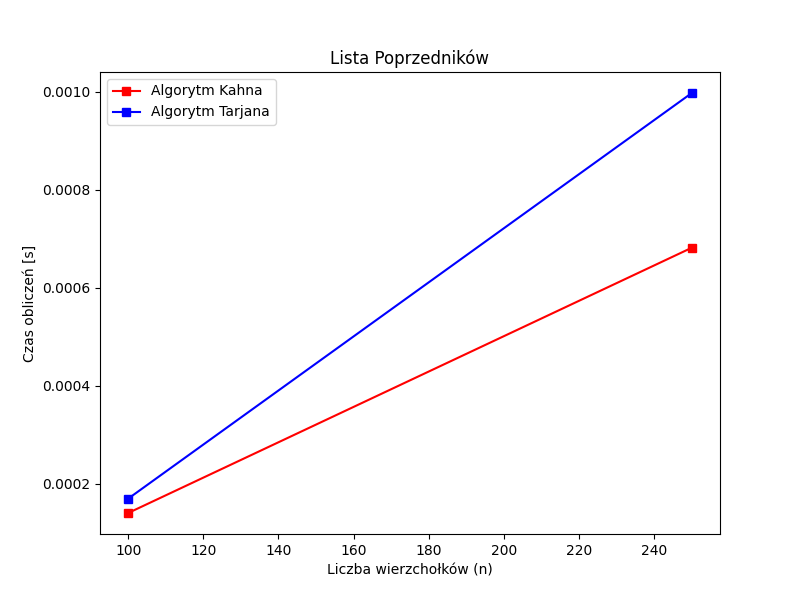
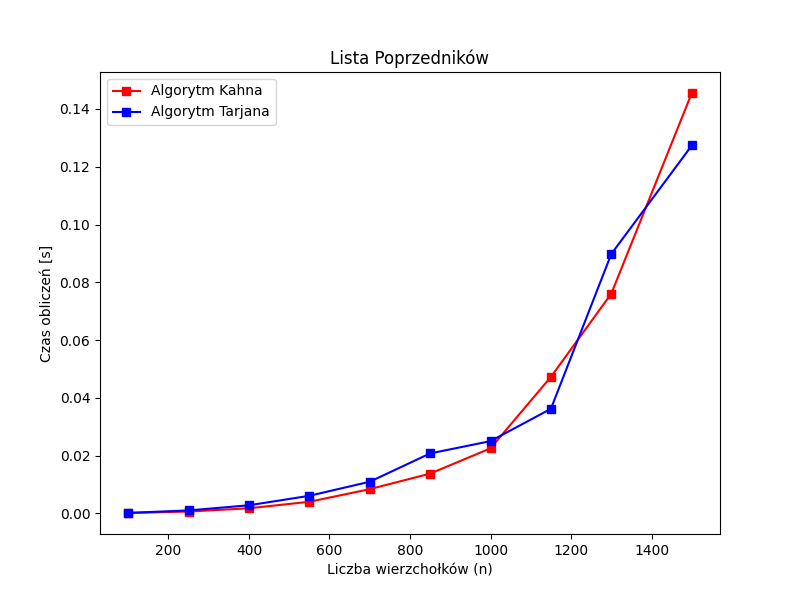
Add report and plots

diff --git a/README.md b/README.md
@@ -1,1 +1,224 @@
-# AiSD-task3-gr2
+# Raport - sortowanie topologiczne grafów
+
+## Testowanie dla n = 100
+### Parametry wejściowe (fragment pliku):
+```text
+100 2475
+68 98
+74 75
+30 84
+32 51
+73 76
+...
+```
+
+### Wyniki sortowania:
+| Algorytm | Reprezentacja      | Czas [s] | Wynik (fragment)                         |
+|:---------|:-------------------|:---------|:-----------------------------------------|
+| Kahna    | Macierz Incydencji | 0.065243 | [1, 4, 6, 2, 3, ..., 98, 94, 95, 99, 96] |
+| Kahna    | Lista Poprzedników | 0.000143 | [1, 4, 6, 2, 3, ..., 98, 94, 95, 99, 96] |
+| Tarjana  | Macierz Incydencji | 0.041055 | [4, 1, 3, 7, 2, ..., 98, 94, 95, 96, 99] |
+| Tarjana  | Lista Poprzedników | 0.000179 | [4, 1, 3, 7, 2, ..., 98, 94, 95, 96, 99] |
+---
+
+## Testowanie dla n = 250
+### Parametry wejściowe (fragment pliku):
+```text
+250 15562
+21 165
+93 137
+137 230
+43 189
+149 164
+...
+```
+
+### Wyniki sortowania:
+| Algorytm | Reprezentacja      | Czas [s] | Wynik (fragment)                              |
+|:---------|:-------------------|:---------|:----------------------------------------------|
+| Kahna    | Macierz Incydencji | 0.748140 | [1, 2, 5, 3, 4, ..., 245, 247, 248, 249, 250] |
+| Kahna    | Lista Poprzedników | 0.000648 | [1, 2, 5, 3, 4, ..., 245, 247, 248, 249, 250] |
+| Tarjana  | Macierz Incydencji | 0.787507 | [5, 2, 3, 1, 4, ..., 246, 247, 248, 249, 250] |
+| Tarjana  | Lista Poprzedników | 0.001035 | [5, 2, 3, 1, 4, ..., 246, 247, 248, 249, 250] |
+---
+
+## Testowanie dla n = 400
+### Parametry wejściowe (fragment pliku):
+```text
+400 39900
+78 299
+41 345
+2 73
+94 268
+204 397
+...
+```
+
+### Wyniki sortowania:
+| Algorytm | Reprezentacja      | Czas [s] | Wynik (fragment)                              |
+|:---------|:-------------------|:---------|:----------------------------------------------|
+| Kahna    | Macierz Incydencji | 3.240142 | [1, 2, 3, 7, 4, ..., 396, 399, 397, 398, 400] |
+| Kahna    | Lista Poprzedników | 0.001777 | [1, 2, 3, 7, 4, ..., 396, 399, 397, 398, 400] |
+| Tarjana  | Macierz Incydencji | 3.204943 | [7, 3, 2, 4, 1, ..., 396, 397, 398, 399, 400] |
+| Tarjana  | Lista Poprzedników | 0.002815 | [7, 3, 2, 4, 1, ..., 396, 397, 398, 399, 400] |
+---
+
+## Testowanie dla n = 550
+### Parametry wejściowe (fragment pliku):
+```text
+550 75487
+148 297
+87 216
+87 474
+375 459
+1 214
+...
+```
+
+### Wyniki sortowania:
+| Algorytm | Reprezentacja      | Czas [s] | Wynik (fragment)                              |
+|:---------|:-------------------|:---------|:----------------------------------------------|
+| Kahna    | Macierz Incydencji | 8.458380 | [1, 2, 3, 4, 5, ..., 547, 546, 548, 549, 550] |
+| Kahna    | Lista Poprzedników | 0.004030 | [1, 2, 3, 4, 5, ..., 547, 546, 548, 549, 550] |
+| Tarjana  | Macierz Incydencji | 8.635438 | [1, 2, 3, 4, 6, ..., 548, 547, 546, 549, 550] |
+| Tarjana  | Lista Poprzedników | 0.006098 | [1, 2, 3, 4, 6, ..., 548, 547, 546, 549, 550] |
+---
+
+## Testowanie dla n = 700
+### Parametry wejściowe (fragment pliku):
+```text
+700 122325
+248 549
+471 648
+408 508
+274 549
+35 348
+...
+```
+
+### Wyniki sortowania:
+| Algorytm | Reprezentacja      | Czas [s]  | Wynik (fragment)                              |
+|:---------|:-------------------|:----------|:----------------------------------------------|
+| Kahna    | Macierz Incydencji | 17.774747 | [1, 2, 4, 3, 6, ..., 695, 696, 700, 697, 699] |
+| Kahna    | Lista Poprzedników | 0.008392  | [1, 2, 4, 3, 6, ..., 695, 696, 700, 697, 699] |
+| Tarjana  | Macierz Incydencji | 17.953235 | [2, 1, 3, 4, 5, ..., 695, 696, 700, 697, 699] |
+| Tarjana  | Lista Poprzedników | 0.010965  | [2, 1, 3, 4, 5, ..., 695, 696, 700, 697, 699] |
+---
+
+## Testowanie dla n = 850
+### Parametry wejściowe (fragment pliku):
+```text
+850 180412
+116 798
+354 465
+257 725
+442 621
+4 194
+...
+```
+
+### Wyniki sortowania:
+| Algorytm | Reprezentacja      | Czas [s]  | Wynik (fragment)                              |
+|:---------|:-------------------|:----------|:----------------------------------------------|
+| Kahna    | Macierz Incydencji | 32.399001 | [1, 2, 3, 4, 5, ..., 846, 848, 847, 849, 850] |
+| Kahna    | Lista Poprzedników | 0.013779  | [1, 2, 3, 4, 5, ..., 846, 848, 847, 849, 850] |
+| Tarjana  | Macierz Incydencji | 34.015965 | [3, 2, 1, 4, 5, ..., 847, 846, 848, 849, 850] |
+| Tarjana  | Lista Poprzedników | 0.020765  | [3, 2, 1, 4, 5, ..., 847, 846, 848, 849, 850] |
+---
+
+## Testowanie dla n = 1000
+### Parametry wejściowe (fragment pliku):
+```text
+1000 249750
+296 556
+331 497
+444 754
+88 215
+545 895
+...
+```
+
+### Wyniki sortowania:
+| Algorytm | Reprezentacja      | Czas [s]  | Wynik (fragment)                               |
+|:---------|:-------------------|:----------|:-----------------------------------------------|
+| Kahna    | Macierz Incydencji | 52.992199 | [1, 2, 4, 3, 5, ..., 996, 998, 997, 999, 1000] |
+| Kahna    | Lista Poprzedników | 0.022535  | [1, 2, 4, 3, 5, ..., 996, 998, 997, 999, 1000] |
+| Tarjana  | Macierz Incydencji | 53.277981 | [2, 3, 5, 6, 4, ..., 996, 997, 998, 999, 1000] |
+| Tarjana  | Lista Poprzedników | 0.025022  | [2, 3, 5, 6, 4, ..., 996, 997, 998, 999, 1000] |
+---
+
+## Testowanie dla n = 1150
+### Parametry wejściowe (fragment pliku):
+```text
+1150 330337
+308 1052
+191 879
+243 699
+735 789
+655 836
+...
+```
+
+### Wyniki sortowania:
+| Algorytm | Reprezentacja      | Czas [s]  | Wynik (fragment)                                   |
+|:---------|:-------------------|:----------|:---------------------------------------------------|
+| Kahna    | Macierz Incydencji | 81.955231 | [1, 2, 3, 4, 5, ..., 1146, 1147, 1150, 1148, 1149] |
+| Kahna    | Lista Poprzedników | 0.047259  | [1, 2, 3, 4, 5, ..., 1146, 1147, 1150, 1148, 1149] |
+| Tarjana  | Macierz Incydencji | 81.101796 | [1, 3, 2, 4, 6, ..., 1147, 1146, 1148, 1149, 1150] |
+| Tarjana  | Lista Poprzedników | 0.036211  | [1, 3, 2, 4, 6, ..., 1147, 1146, 1148, 1149, 1150] |
+---
+
+## Testowanie dla n = 1300
+### Parametry wejściowe (fragment pliku):
+```text
+1300 422175
+686 1097
+282 838
+154 1000
+11 1250
+249 649
+...
+```
+
+### Wyniki sortowania:
+| Algorytm | Reprezentacja      | Czas [s]   | Wynik (fragment)                                   |
+|:---------|:-------------------|:-----------|:---------------------------------------------------|
+| Kahna    | Macierz Incydencji | 139.459027 | [1, 4, 2, 3, 5, ..., 1295, 1296, 1298, 1299, 1300] |
+| Kahna    | Lista Poprzedników | 0.076064   | [1, 4, 2, 3, 5, ..., 1295, 1296, 1298, 1299, 1300] |
+| Tarjana  | Macierz Incydencji | 128.284613 | [4, 1, 2, 3, 5, ..., 1296, 1295, 1298, 1299, 1300] |
+| Tarjana  | Lista Poprzedników | 0.089803   | [4, 1, 2, 3, 5, ..., 1296, 1295, 1298, 1299, 1300] |
+---
+
+## Testowanie dla n = 1500
+### Parametry wejściowe (fragment pliku):
+```text
+1500 562125
+328 1357
+621 979
+285 301
+381 702
+886 1176
+...
+```
+
+### Wyniki sortowania:
+| Algorytm | Reprezentacja      | Czas [s]   | Wynik (fragment)                                   |
+|:---------|:-------------------|:-----------|:---------------------------------------------------|
+| Kahna    | Macierz Incydencji | 952.329666 | [1, 2, 7, 6, 3, ..., 1494, 1495, 1498, 1500, 1499] |
+| Kahna    | Lista Poprzedników | 0.145533   | [1, 2, 7, 6, 3, ..., 1494, 1495, 1498, 1500, 1499] |
+| Tarjana  | Macierz Incydencji | 997.733246 | [7, 2, 3, 1, 6, ..., 1493, 1495, 1498, 1500, 1499] |
+| Tarjana  | Lista Poprzedników | 0.127363   | [7, 2, 3, 1, 6, ..., 1493, 1495, 1498, 1500, 1499] |
+---
+
+# Wykresy
+![Wykres - macierz incydencji](/plot_linear_matrix.png)
+![Wykres - lista poprzedników](/plot_linear_predecessors.png)
+![Wykres - algorytm Kahna](/plot_log_kahn.png)
+![Wykres - algorytm Tarjana](/plot_log_tarjan.png)
+
+
+## Porównanie reprezentacji grafów
+| Reprezentacja          | Zalety                                                                                                                 | Wady                                                                                                                       |
+|:-----------------------|:-----------------------------------------------------------------------------------------------------------------------|:---------------------------------------------------------------------------------------------------------------------------|
+| **Macierz Incydencji** | Łatwa identyfikacja końców krawędzi; dobra do multigrafów (wielokrotne połączenia).                                    | Skrajnie nieefektywna pamięciowo ($O(V \cdot E)$), wyszukiwanie sąsiadów trwa $O(E)$, co drastycznie spowalnia sortowanie. |
+| **Lista Poprzedników** | Oszczędność pamięci ($O(V+E)$), natychmiastowy dostęp do stopnia wejściowego (Kahn) i szybkie przeszukiwanie sąsiadów. | Bardziej złożona implementacja, wolniejsze sprawdzanie istnienia konkretnej krawędzi.                                      |
